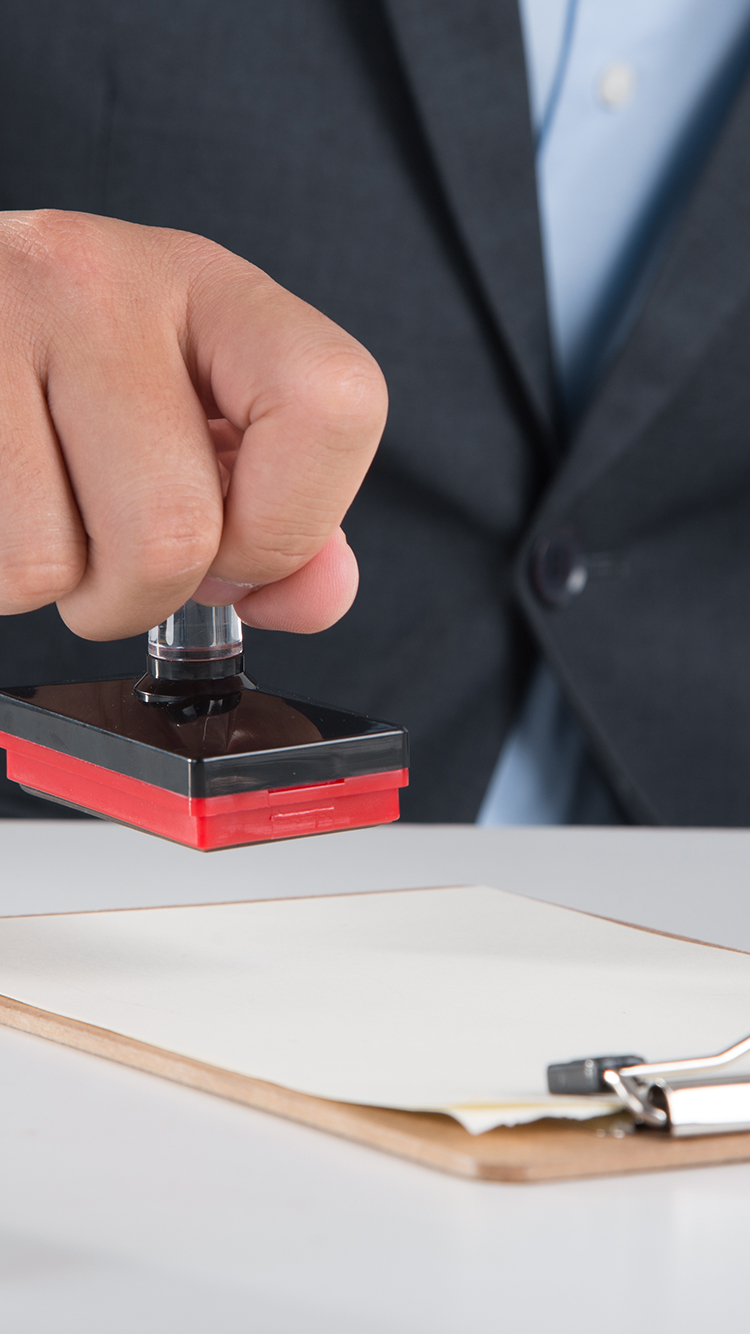
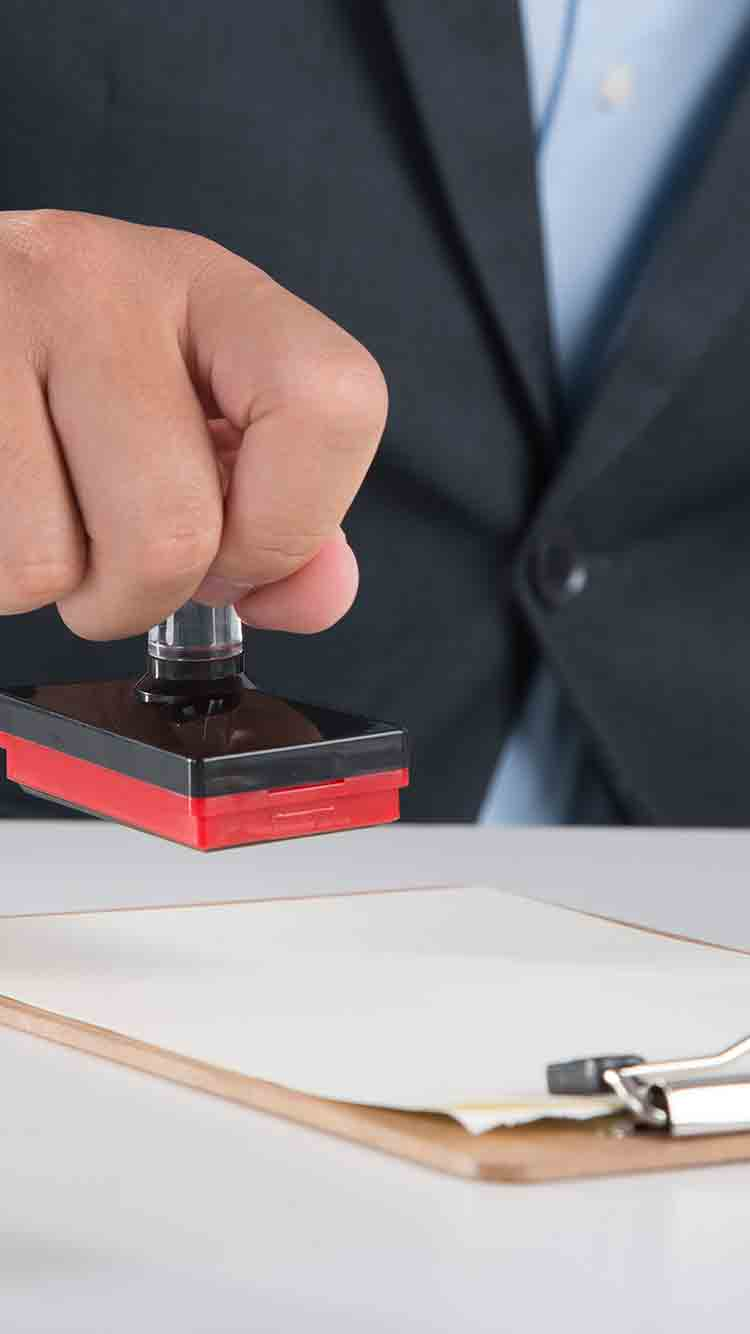
add shadow

diff --git a/password.html b/password.html
@@ -14,6 +14,7 @@
 </head>
 <link rel="stylesheet" href="css/index.css">
 <body class="bd-password">
+  <div class="bg-shadow"></div>
   <div class="logo-box"></div>
   <div class="input-box">
     <div class="false-hints">请输入办理公证获取的查询密码</div>

diff --git a/css/index.css b/css/index.css
@@ -387,3 +387,12 @@ p {
   background: #1ab394;
   display: block;
   border-radius: 6px; }
+
+.bg-shadow {
+  position: absolute;
+  left: 0;
+  top: 0;
+  width: 100%;
+  height: 100%;
+  background: rgba(51, 51, 51, 0.5);
+  z-index: -1; }

diff --git a/css/index.scss b/css/index.scss
@@ -328,3 +328,12 @@ p {
   display: block;
   border-radius: 6px;
 }
+.bg-shadow {
+  position: absolute;
+  left: 0;
+  top: 0;
+  width: 100%;
+  height: 100%;
+  background: rgba(#333, .5);
+  z-index: -1;
+}
